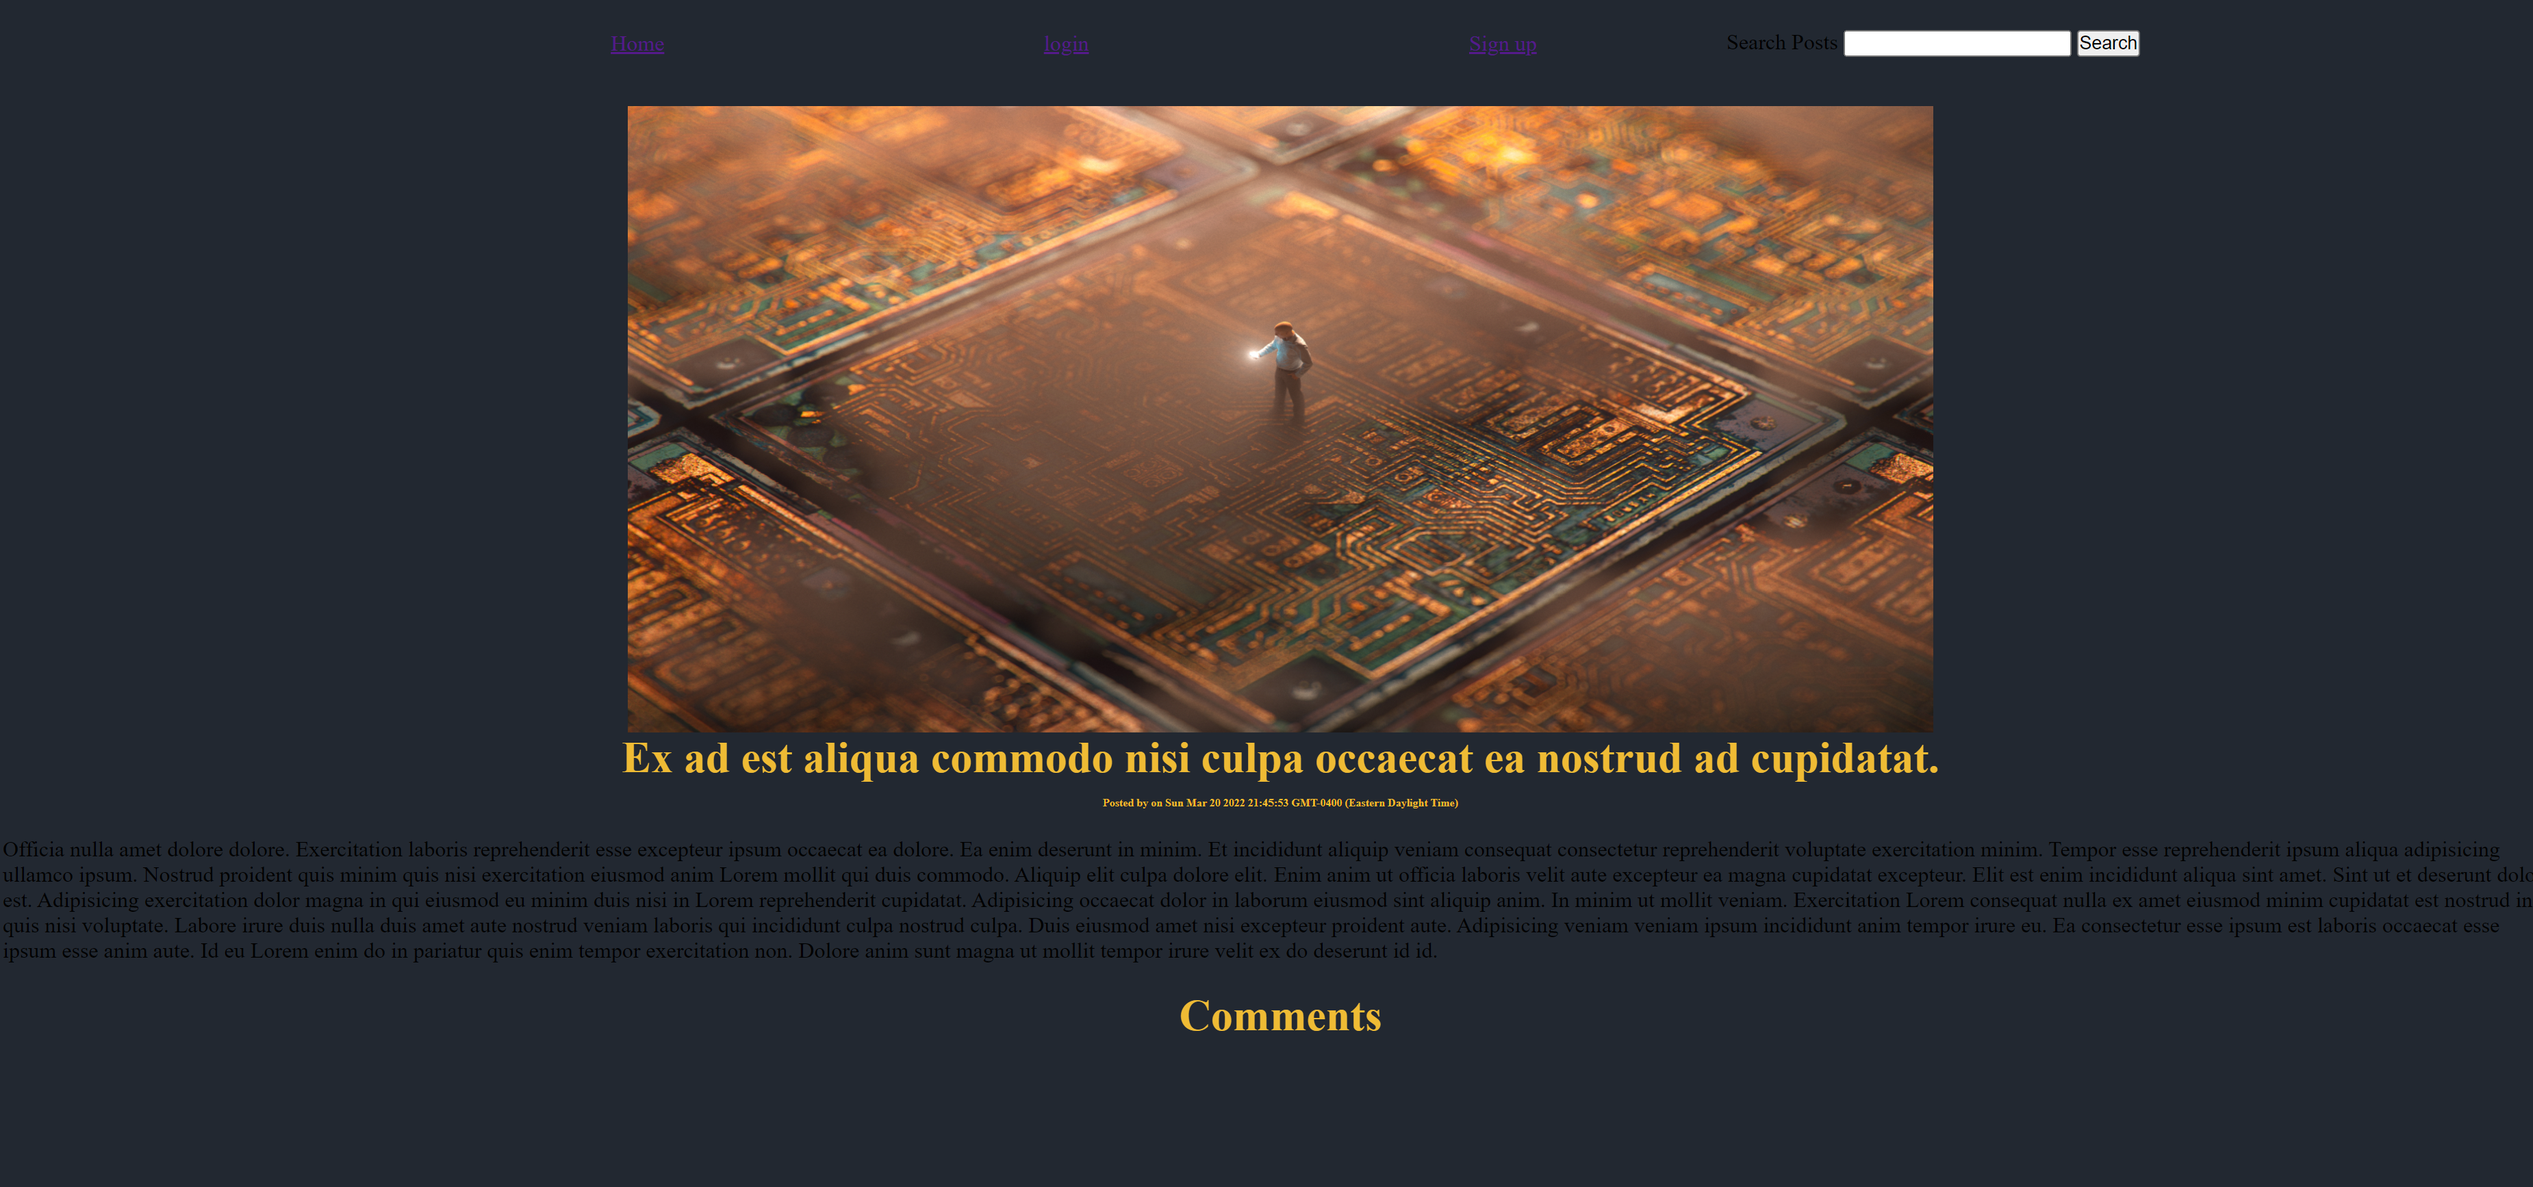
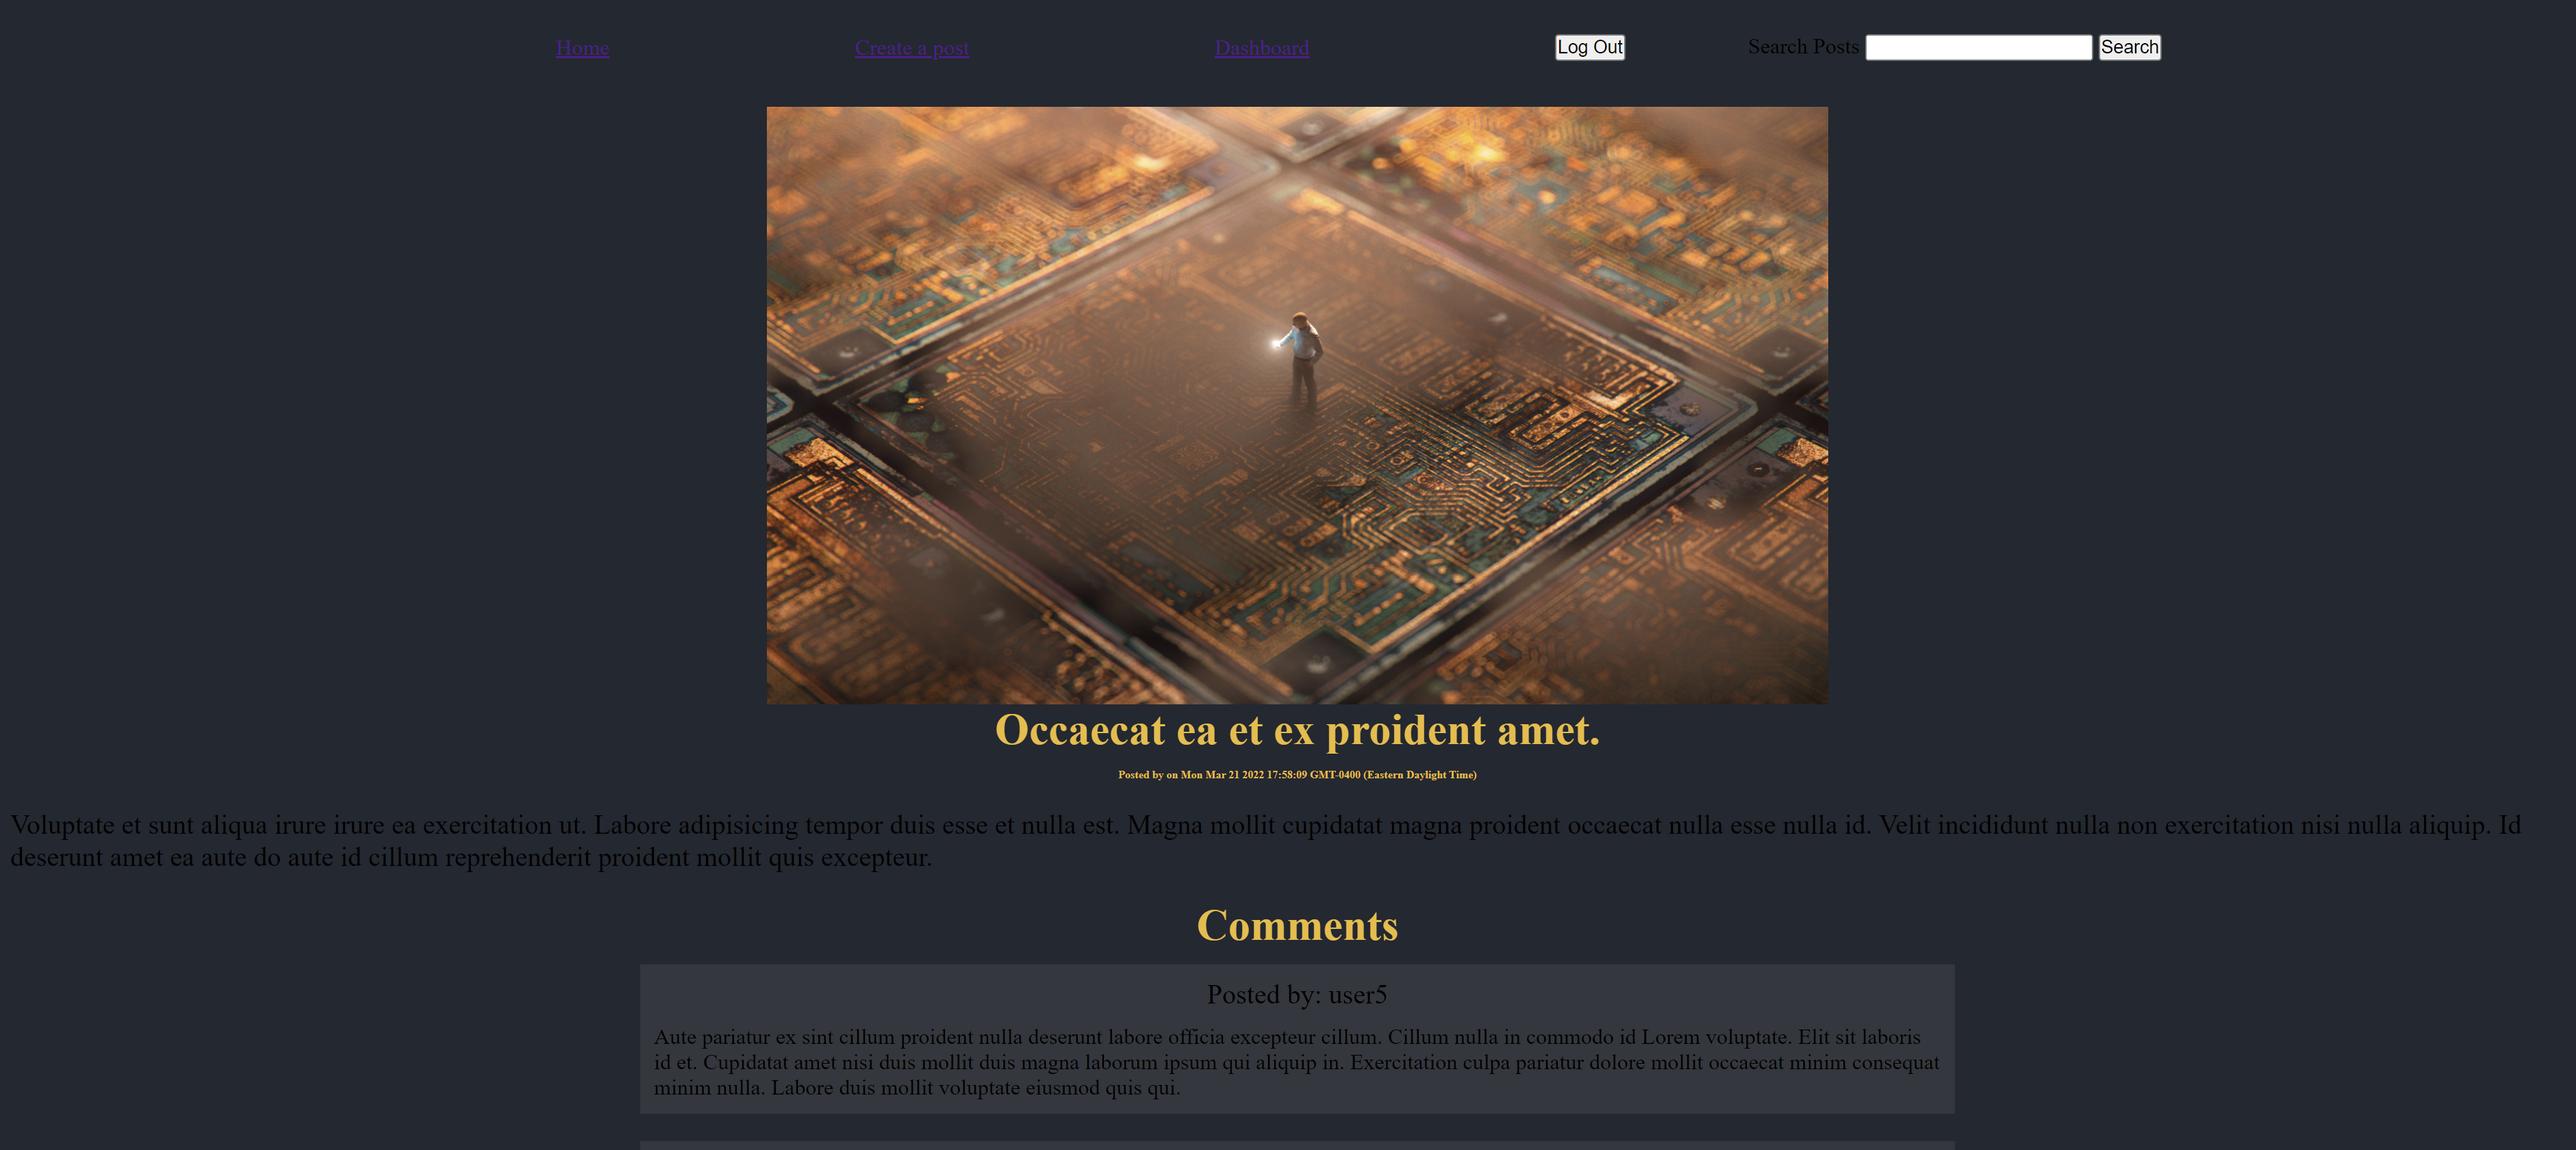
added additional formatting to navbar links

diff --git a/public/stylesheets/styles.css b/public/stylesheets/styles.css
@@ -96,8 +96,26 @@ h3 {
   width: 100%;
   height: 10vh;
   background-color: --var(--bg4);
-  z-index: 2;
-  /* position: fixed; */
+  border: 1px solid var(--green)
+}
+
+.nav-btn {
+  background-color: transparent;
+  border: 1px solid var(--green1);
+  padding: 10px;
+  border-radius: 10%;
+  cursor: pointer;
+  box-shadow: none;
+  transition: 0.5s linear;
+}
+
+.nav-btn:hover {
+  background-color: var(--green1);
+}
+
+.nav-btn > a {
+  text-decoration: none;
+  color: white;
 }
 
 .nav-links {
@@ -110,6 +128,22 @@ h3 {
 
 .nav-links > li {
   margin: 30px;
+}
+
+.search-container > input {
+  background-color: transparent;
+}
+
+.search-container > label {
+  color: white;
+}
+
+.search-container > button {
+  color: white;
+}
+
+.logout {
+  color: white;
 }
 
 .main-container {
@@ -136,9 +170,38 @@ h3 {
   text-align: center;
 }
 
+
 .tile > h1 > a {
   text-decoration: none;
   color: var(--green1);
+  transition: 0.25s linear;
+}
+
+.tile > h1 > a:hover {
+  color: white;
+}
+
+.tile > img {
+  height: 25px;
+  width: auto;
+  position: absolute;
+  opacity: 0;
+  cursor: pointer;
+  transition: 0.25s linear;
+}
+
+.tile:hover img {
+  opacity: 1
+}
+
+.edit-icon {
+  top: 5%;
+  right: 15%;
+}
+
+.delete-icon {
+  top: 5%;
+  right: 5%;
 }
 
 .post-container {

diff --git a/public/javascript/edit-post.js b/public/javascript/edit-post.js
@@ -1,0 +1,36 @@
+document.querySelectorAll(".edit-icon").forEach((icon) => {
+  icon.addEventListener("click", () => {
+    document.location.replace("/edit-post");
+  });
+});
+
+const editPost = async () => {
+  const title = document.querySelector(".post-title").value;
+  const postContent = document.querySelector(".post-content").value;
+  const imageUrl = document.querySelector(".post-image-url").value;
+  const postId = window.location.toString().split("/")[
+    window.location.toString().split("/").length - 1
+  ];
+
+  if (title && postContent) {
+    const response = await fetch(`/api/posts/${postId}`, {
+      method: "PUT",
+      body: JSON.stringify({
+        title,
+        postContent,
+        imageUrl,
+      }),
+      headers: {
+        "Content-Type": "application/json",
+      },
+    });
+
+    if (response.ok) {
+      document.location.replace("/dashboard/");
+    } else {
+      response.statusText;
+    }
+  }
+};
+
+document.querySelector(".submit").addEventListener("click", editPost);

diff --git a/controllers/dashboard-routes.js b/controllers/dashboard-routes.js
@@ -6,7 +6,7 @@ const auth = require("../utils/auth");
 router.get("/", auth, (req, res) => {
   Post.findAll({
     where: {
-      user_id: req.session.user_id, // need withAuth funtion here, or accessing dashboard while logged out returns error
+      user_id: req.session.user_id, // need withAuth function here, or accessing dashboard while logged out returns error
     },
     attributes: ["id", "title", "created_at"],
     include: {

diff --git a/controllers/home-routes.js b/controllers/home-routes.js
@@ -91,4 +91,8 @@ router.get("/add-post", (req, res) => {
   });
 });
 
+router.get("/edit-post", (req, res) => {
+  res.render("edit-post", { loggedIn: true });
+});
+
 module.exports = router;

diff --git a/controllers/apiRoutes/post-routes.js b/controllers/apiRoutes/post-routes.js
@@ -76,7 +76,7 @@ router.post(
   }
 );
 
-// update a post
+// edit a post
 router.put("/:id", (req, res) => {
   Post.update({
     title: req.body.title,

diff --git a/README.md b/README.md
@@ -14,7 +14,7 @@
 
 ![main screenshot](./public/images/screen1.png)
 
-This project was developed so that users can quickly and easily post about topics of their choosing, as well as comment on existing posts. As my first full-stack web application, it was an excellent introduction to backend/frontend integration, and also gave me the opportunity to work more closely with HTML templating and session storage on the client end. I also used this project as a means to familiarize myself with user input validation techniques using express middleware. Presently, I consider this an MVP build, and plan to introduce additional features and improvements in the future including
+This project was developed so that users can quickly and easily post about topics of their choosing, as well as comment on existing posts. As my first full-stack web application, it was an excellent introduction to backend/frontend integration, and also gave me the opportunity to work with new concepts like HTML templating and cookie storage. I also used this project as a means to familiarize myself with user input validation techniques using express middleware. Presently, I consider this an MVP build, and plan to introduce additional features and improvements in the future including
 
 ## Installation
 
@@ -28,25 +28,27 @@ The homepage consists of posts presented in tile format. Users can navigate to a
 
 Each post also contains a comment section. Logging in enables the user to post their own comment.
 
-![main screenshot](./public/images/comment-section.png)
+![post-comment screenshot](./public/images/post-comment.png)
 
 The navigation bar is present on every page the user visits. This was accomplished by including this element in the primary handlebars template. The navigation bar includes home, login and signup links.
 
-![main screenshot](./public/images/navbar.png)
+![navbar screenshot](./public/images/navbar.png)
 
 The user can use the login link to navigate to a page where they can sign into the website.
 
-![main screenshot](./public/images/login.png)
+![login screenshot](./public/images/login.png)
 
 To create a new account, the user can follow the signup link.
 
-![main screenshot](./public/images/signup.png)
+![signup screenshot](./public/images/signup.png)
 
 When the user is logged in, the navbar will present the following links instead.
 
-![main screenshot](./public/images/navbar-loggedIn.png)
+![navbar-loggedIn screenshot](./public/images/navbar-loggedIn.png)
 
-This was accomplished through the use of conditional statements in the templates. In addition to having the option to log out of the website, the user can also choose to create a post by following its link.
+This was accomplished through the use of conditional statements in the templates. In addition to having the option to log out of the website, the user can also choose to create a post by following its link. Upon doing so, the user will be presented with the following form:
+
+![add-post screenshot](./public/images/add-post.png)
 
 ## Utilizes
 
@@ -58,8 +60,6 @@ This was accomplished through the use of conditional statements in the templates
 - Express
 - Sequelize
 - MySQL
-
-## Credits
 
 ## Questions
 
